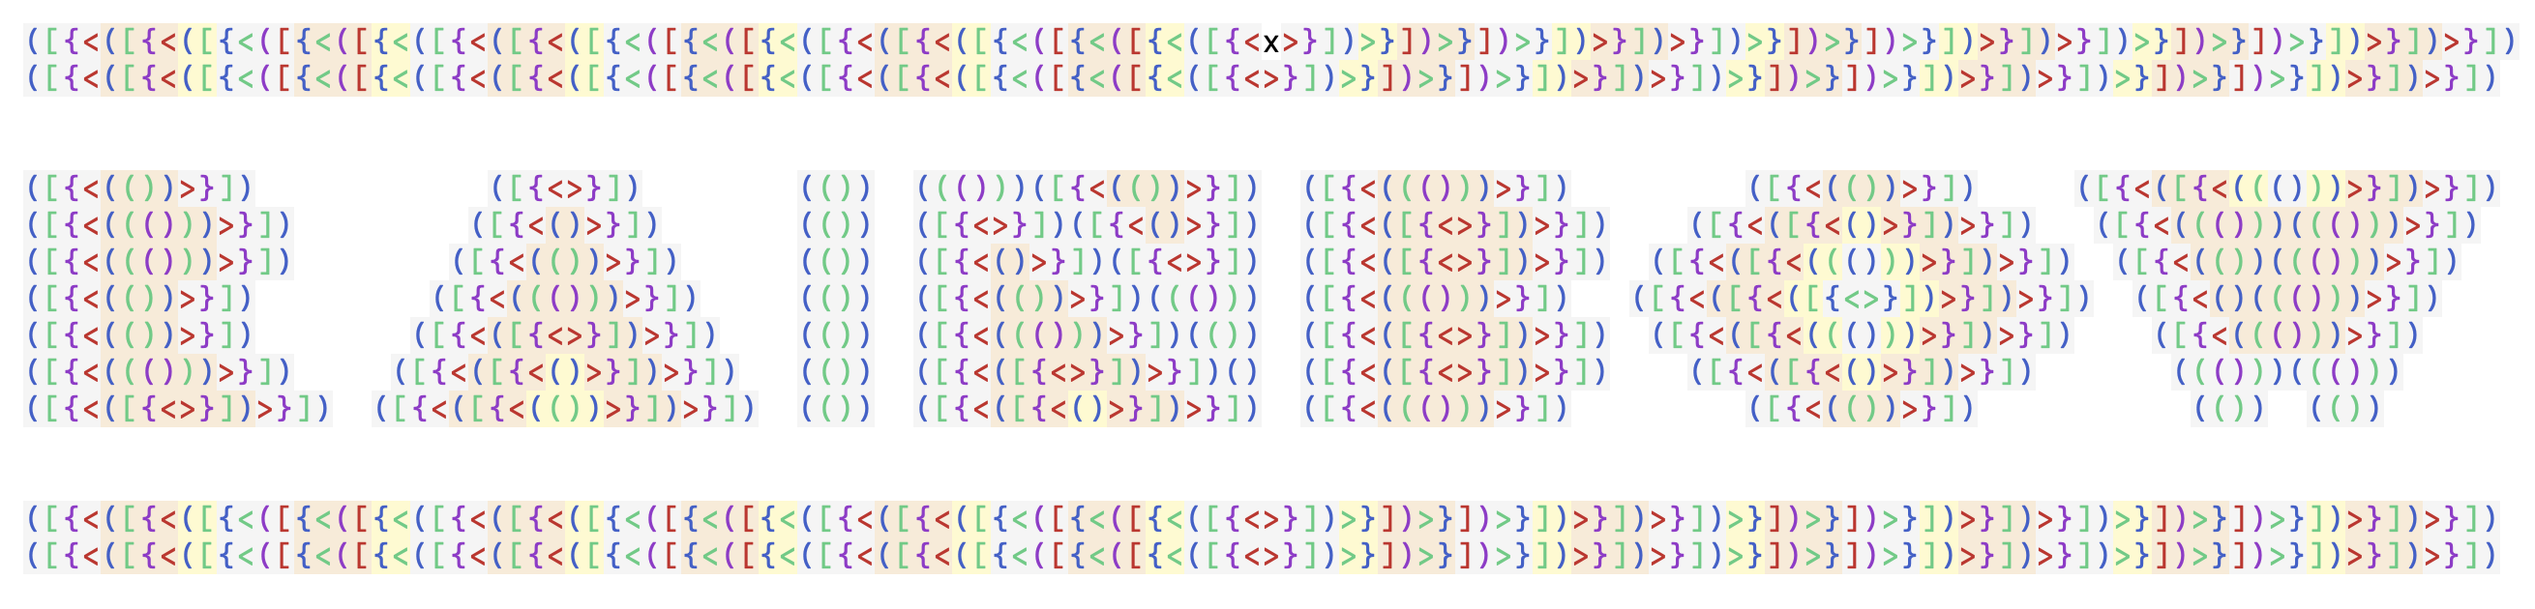
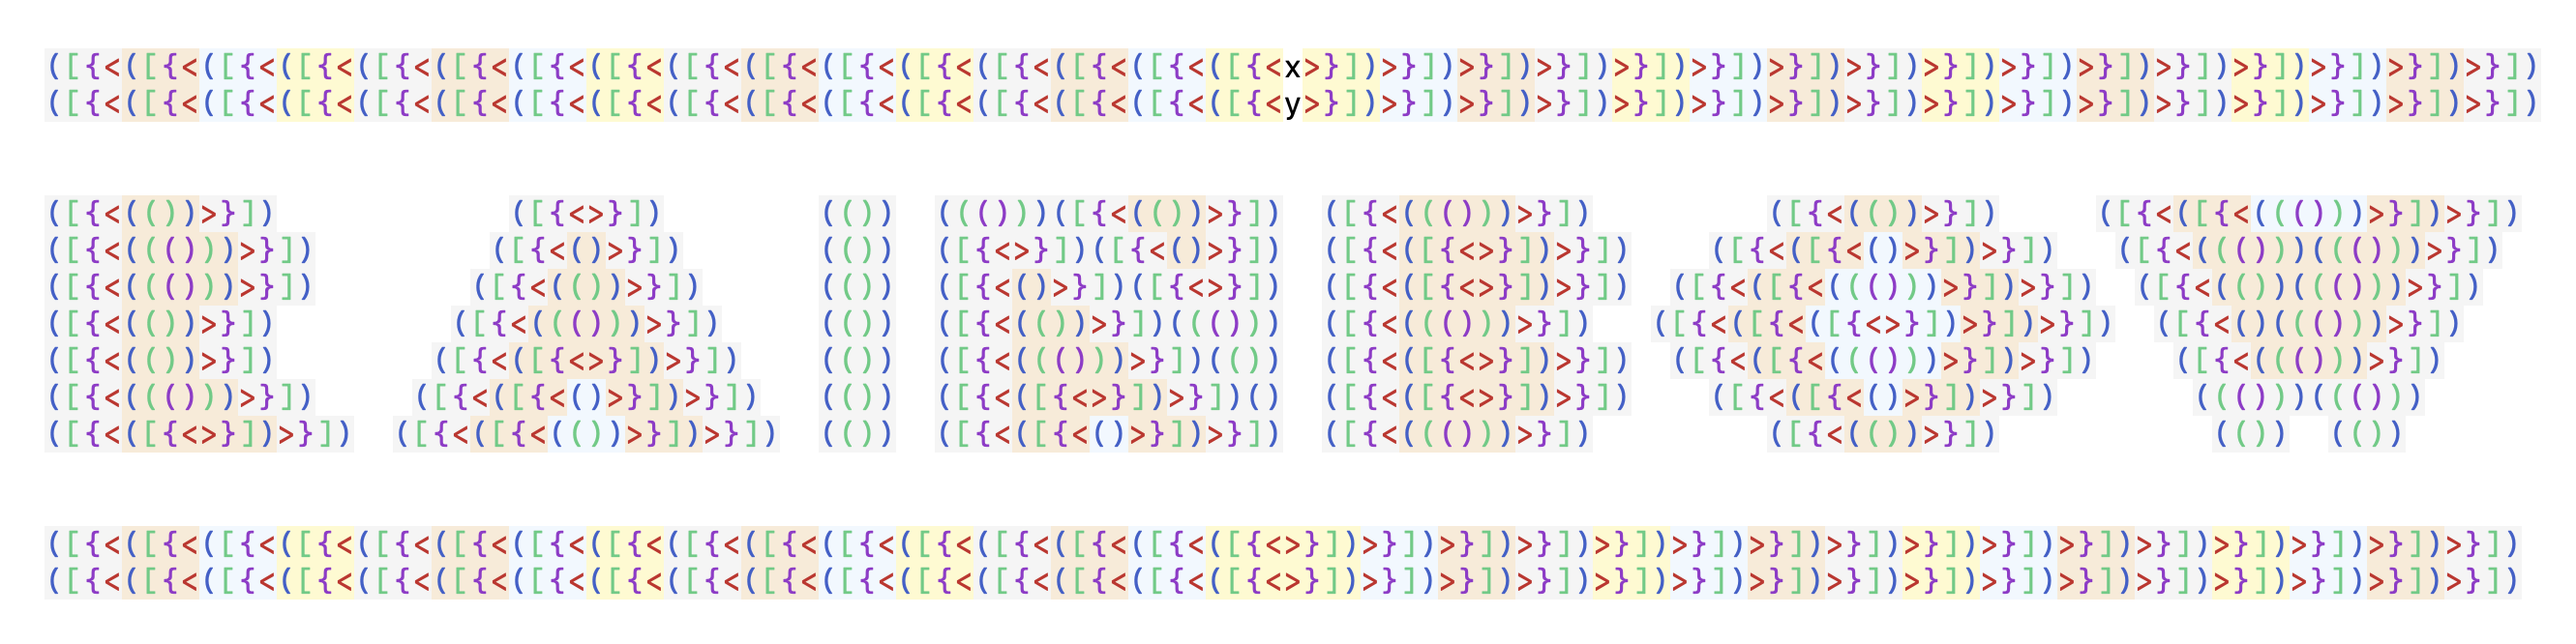
Back to 16 level for 4×4 colour sets.

Changed region(s): [[0.0, 0.2714, 0.9893, 0.7238], [0.0, 0.0302, 1.0, 0.2111], [0.0, 0.8143, 0.9893, 0.9651]]

diff --git a/Documents/test_rainbow.md b/Documents/test_rainbow.md
@@ -71,23 +71,27 @@
    <<<<<<<<<<<<<<<<<<<<<<<<<<<<<<<<<<<<<<<<<<<<<<<<<<<<<<<<<<<<<<<<>>>>>>>>>>>>>>>>>>>>>>>>>>>>>>>>>>>>>>>>>>>>>>>>>>>>>>>>>>>>>>>>
    <<<<<<<<<<<<<<<<<<<<<<<<<<<<<<<<<<<<<<<<<<<<<<<<<<<<<<<<<<<<<<<<>>>>>>>>>>>>>>>>>>>>>>>>>>>>>>>>>>>>>>>>>>>>>>>>>>>>>>>>>>>>>>>>
 
-# turn on `g:rainbow_parenthesis_color_set = "…"` all of the above
-
-   ([{<([{<([{<([{<([{<([{<([{<([{<([{<([{<([{<([{<([{<([{<([{<([{<x>}])>}])>}])>}])>}])>}])>}])>}])>}])>}])>}])>}])>}])>}])>}])>}])
-   ([{<([{<([{<([{<([{<([{<([{<([{<([{<([{<([{<([{<([{<([{<([{<([{<>}])>}])>}])>}])>}])>}])>}])>}])>}])>}])>}])>}])>}])>}])>}])>}])
-
-
-   ([{<(())>}])            ([{<>}])        (())  ((()))([{<(())>}])  ([{<((()))>}])         ([{<(())>}])     ([{<([{<((()))>}])>}])
-   ([{<((()))>}])         ([{<()>}])       (())  ([{<>}])([{<()>}])  ([{<([{<>}])>}])    ([{<([{<()>}])>}])   ([{<((()))((()))>}])
-   ([{<((()))>}])        ([{<(())>}])      (())  ([{<()>}])([{<>}])  ([{<([{<>}])>}])  ([{<([{<((()))>}])>}])  ([{<(())((()))>}])
-   ([{<(())>}])         ([{<((()))>}])     (())  ([{<(())>}])((()))  ([{<((()))>}])   ([{<([{<([{<>}])>}])>}])  ([{<()((()))>}])
-   ([{<(())>}])        ([{<([{<>}])>}])    (())  ([{<((()))>}])(())  ([{<([{<>}])>}])  ([{<([{<((()))>}])>}])    ([{<((()))>}])
-   ([{<((()))>}])     ([{<([{<()>}])>}])   (())  ([{<([{<>}])>}])()  ([{<([{<>}])>}])    ([{<([{<()>}])>}])       ((()))((()))
-   ([{<([{<>}])>}])  ([{<([{<(())>}])>}])  (())  ([{<([{<()>}])>}])  ([{<((()))>}])         ([{<(())>}])           (())  (())
-
-
-   ([{<([{<([{<([{<([{<([{<([{<([{<([{<([{<([{<([{<([{<([{<([{<([{<>}])>}])>}])>}])>}])>}])>}])>}])>}])>}])>}])>}])>}])>}])>}])>}])
-   ([{<([{<([{<([{<([{<([{<([{<([{<([{<([{<([{<([{<([{<([{<([{<([{<>}])>}])>}])>}])>}])>}])>}])>}])>}])>}])>}])>}])>}])>}])>}])>}])
-
+# turn on  rainbow parenthesis using `g:rainbow_parenthesis_color_set = "…"` all  `call rainbow_parenthesis#All ()`
+``` 
+┌─────────────────────────────────────────────────────────────────────────────────────────────────────────────────────────────────────┐ 
+│                                                                                                                                     │   
+│  ([{<([{<([{<([{<([{<([{<([{<([{<([{<([{<([{<([{<([{<([{<([{<([{<x>}])>}])>}])>}])>}])>}])>}])>}])>}])>}])>}])>}])>}])>}])>}])>}])  │
+│  ([{<([{<([{<([{<([{<([{<([{<([{<([{<([{<([{<([{<([{<([{<([{<([{<y>}])>}])>}])>}])>}])>}])>}])>}])>}])>}])>}])>}])>}])>}])>}])>}])  │
+│                                                                                                                                     │
+│                                                                                                                                     │
+│  ([{<(())>}])            ([{<>}])        (())  ((()))([{<(())>}])  ([{<((()))>}])         ([{<(())>}])     ([{<([{<((()))>}])>}])   │
+│  ([{<((()))>}])         ([{<()>}])       (())  ([{<>}])([{<()>}])  ([{<([{<>}])>}])    ([{<([{<()>}])>}])   ([{<((()))((()))>}])    │
+│  ([{<((()))>}])        ([{<(())>}])      (())  ([{<()>}])([{<>}])  ([{<([{<>}])>}])  ([{<([{<((()))>}])>}])  ([{<(())((()))>}])     │
+│  ([{<(())>}])         ([{<((()))>}])     (())  ([{<(())>}])((()))  ([{<((()))>}])   ([{<([{<([{<>}])>}])>}])  ([{<()((()))>}])      │
+│  ([{<(())>}])        ([{<([{<>}])>}])    (())  ([{<((()))>}])(())  ([{<([{<>}])>}])  ([{<([{<((()))>}])>}])    ([{<((()))>}])       │
+│  ([{<((()))>}])     ([{<([{<()>}])>}])   (())  ([{<([{<>}])>}])()  ([{<([{<>}])>}])    ([{<([{<()>}])>}])       ((()))((()))        │
+│  ([{<([{<>}])>}])  ([{<([{<(())>}])>}])  (())  ([{<([{<()>}])>}])  ([{<((()))>}])         ([{<(())>}])           (())  (())         │
+│                                                                                                                                     │
+│                                                                                                                                     │
+│  ([{<([{<([{<([{<([{<([{<([{<([{<([{<([{<([{<([{<([{<([{<([{<([{<>}])>}])>}])>}])>}])>}])>}])>}])>}])>}])>}])>}])>}])>}])>}])>}])   │
+│  ([{<([{<([{<([{<([{<([{<([{<([{<([{<([{<([{<([{<([{<([{<([{<([{<>}])>}])>}])>}])>}])>}])>}])>}])>}])>}])>}])>}])>}])>}])>}])>}])   │
+│                                                                                                                                     │   
+└─────────────────────────────────────────────────────────────────────────────────────────────────────────────────────────────────────┘
+```
 
 # vim: nocursorcolumn nocursorline nofoldenable

diff --git a/README.md b/README.md
@@ -9,16 +9,21 @@ If you need something more powerful and configurable try
 
 This is the original for http://www.vim.org/scripts/script.php?script_id=1561
 
-Based on the original rainbow_parenthsis from john gilmore but enhanced for
+Based on the original rainbow_parenthesis from john gilmore but enhanced for
 gui mode.
 
-Reports errors to: https://github.com/krischik/Rainbow-Parenthesis-Bundle/discussions
-Discuss improvements on: https://github.com/krischik/Rainbow-Parenthesis-Bundle/discussions
+|             |                                                                    |
+|-------------|--------------------------------------------------------------------|
+| Source      | https://github.com/krischik/Rainbow-Parenthesis-Bundle             |
+| Releases    | https://github.com/krischik/Rainbow-Parenthesis-Bundle/releases    |
+| Wiki        | https://github.com/krischik/Rainbow-Parenthesis-Bundle/wiki        |
+| Issues      | https://github.com/krischik/Rainbow-Parenthesis-Bundle/issues      |
+| Discussions | https://github.com/krischik/Rainbow-Parenthesis-Bundle/discussions |
 
 # slve improvements
 
-My technique only worked up to 15 level. Which is isn't any good for languages
- like lisp. slve fixed this with a recursive solution. Very need.
+My technique only worked up to 16 level. Which is isn't any good for languages
+like lisp. slve fixed this with a recursive solution. Very need.
 
 ## before
 
@@ -26,7 +31,13 @@ My technique only worked up to 15 level. Which is isn't any good for languages
 
 ## after
 
+### dark
+
 <img src="Pictures/after.png" width="1060">
+
+### light
+
+<img src="Pictures/slve.png" width="1060">
 
 # autre improvements
 
@@ -37,21 +48,28 @@ for a dark background.
 
 # charlietanksley improvements
 
-Fork of original.  Forked primarily to remove the background color on the
+Fork of original. Forked primarily to remove the background color on the
 syntax highlighting.
 
 <img src="Pictures/charlietanksley.png" width="1060">
 
 # jwilkins improvements
 
+Remove the background color in terminal mode.
+
 <img src="Pictures/jwilkins.png" width="1060">
 
 # krischik improvements
 
-Vim got a little scricter on syntax highlights and some of slve tricks didn't
-work any more so fixing was needed. I also added an option to choose between
-my colour set and those of other contributer.
+Fixed all the bugs and merged all the code.
+ 
+Vim got a little stricter on syntax highlights and some of slve tricks didn't
+work any more. I also added an option to choose between my colour set and
+those of the other contributors.
 
-## fixed
+Increased the levels before repeating back to 16. Slve repeated after 10.
+
+Switched the background colours around for better contrast between level 15
+and level 0.
 
 <img src="Pictures/fixed.png" width="1060">
